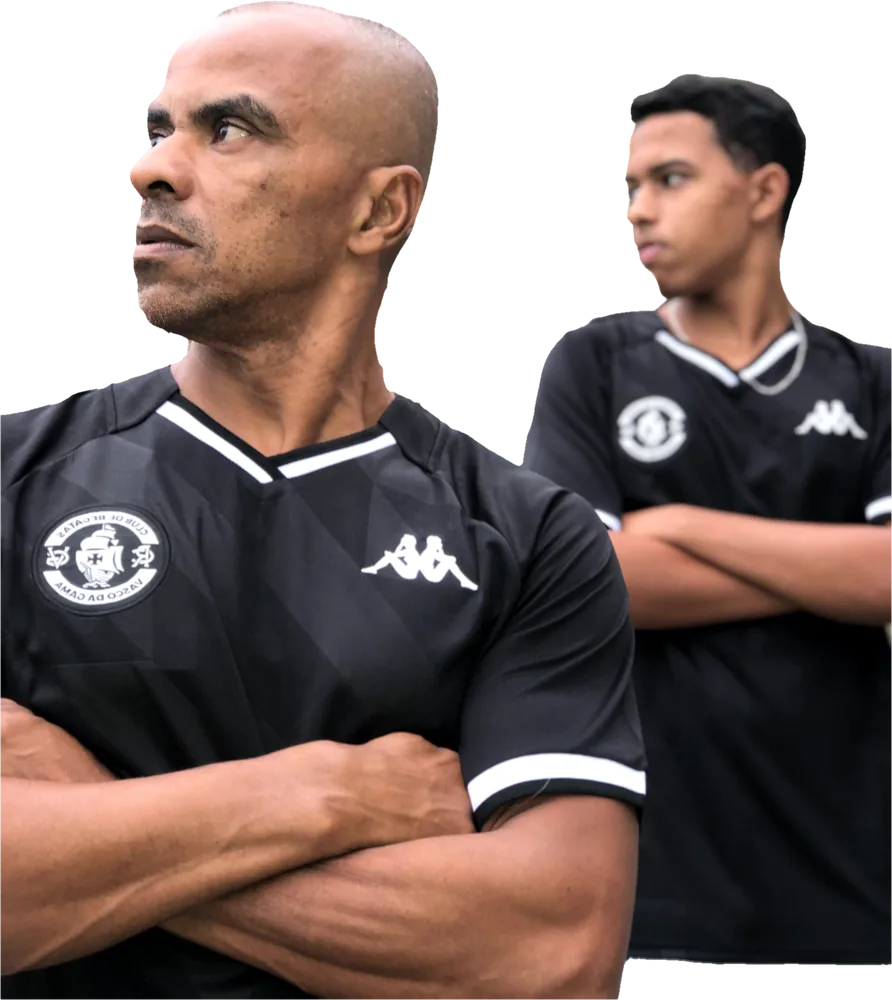
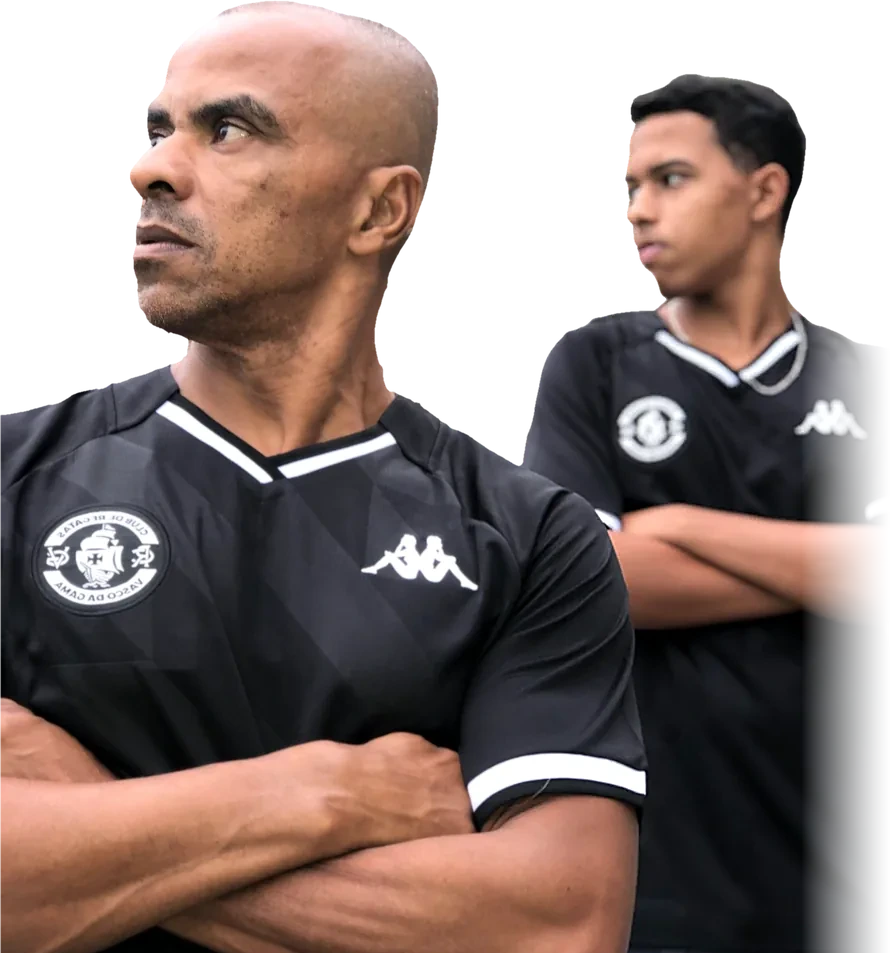
Clean up the Vasco fans cutout: no bottom gap, soft right edge, sharper back figure
The back figure's shirt ended above the image bottom and was cut by a
hard, half-transparent vertical edge. Trim the bottom strip (1000 -> 953
px), fade the cropped right edge, lightly sharpen only that figure and
re-encode at higher quality.

Claude-Session: https://claude.ai/code/session_013MRuk3tvZR6qsi64v6SyMM

diff --git a/src/components/BrandWordmark.tsx b/src/components/BrandWordmark.tsx
@@ -134,7 +134,7 @@ export function BrandSignature() {
           src={fansVasco}
           alt=""
           width={892}
-          height={1000}
+          height={953}
           loading="lazy"
           className="wm-fans wm-reveal absolute bottom-0 left-0 h-full w-auto max-w-none"
           style={{ "--d": "0.9s" } as CSSProperties}
